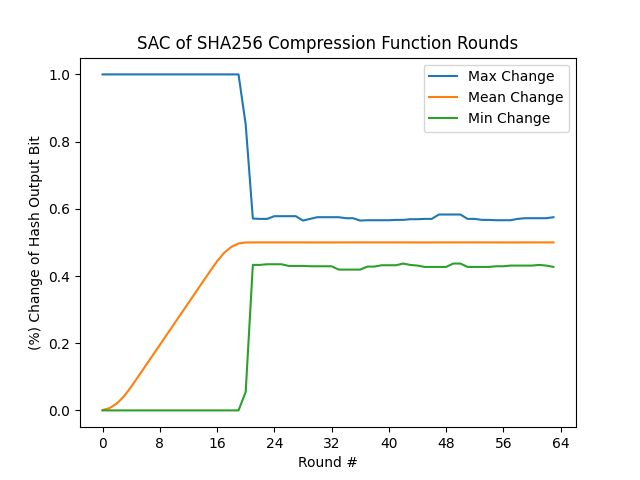
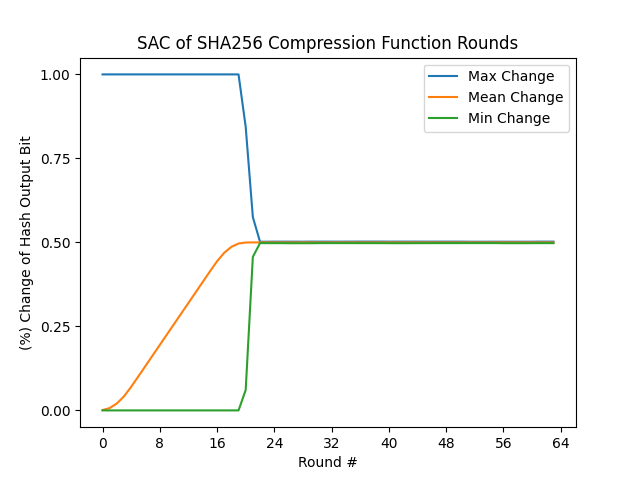
Added 64 rounds data

diff --git a/plot.py b/plot.py
@@ -40,11 +40,11 @@ def ReadAndPlot64(dirName):
     plt.ylabel("(%) Change of Hash Output Bit")
     plt.title("SAC of SHA256 Compression Function Rounds")
     plt.xticks(range(0,65,8))
-    #plt.yticks(np.arange(.49,.51,.005))
+    plt.yticks(np.arange(0,1.01,.25))
     plt.legend(["Max Change","Mean Change","Min Change"])
     plt.savefig("./data/plots/{}.png".format(dirName))
     plt.close()
 
 #ReadAndPlotFull('fullCF')
-#ReadAndPLot64("rounds")
-ReadAndPlot64("no_sched")
+ReadAndPlot64("rounds")
+#ReadAndPlot64("no_sched")
